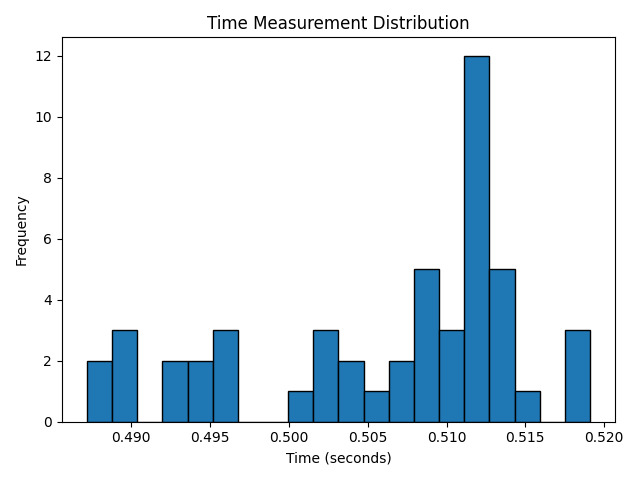
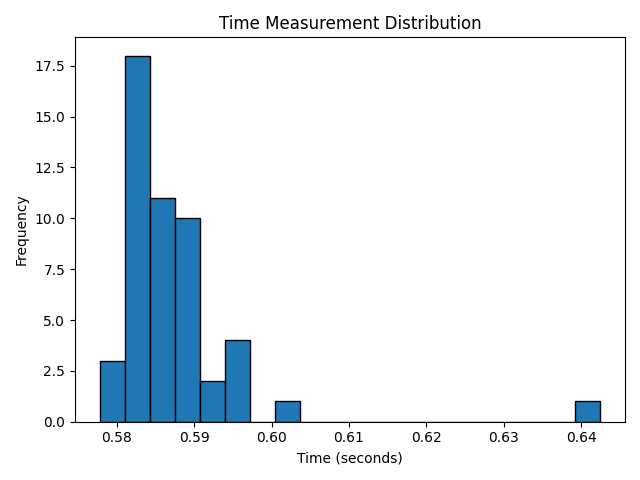
Last refinements

diff --git a/src/bifurcation_generator_CPU.cpp b/src/bifurcation_generator_CPU.cpp
@@ -4,6 +4,7 @@
 #include <stdexcept>
 #include <chrono>
 #include <fstream>
+#include <filesystem>
 
 #include <thread>
 #include <future>
@@ -45,20 +46,27 @@ struct DiaGenParameters {
     float x_range_inv;
     float r_step;
 
-    //Constructor to initialize the parameters and precompute values for optimization
-    DiaGenParameters() {
-        x_range_inv = 1.0f / (x_max - x_min);
-        r_step = (r_max - r_min) / (x_axis - 1);
-    }
-    DiaGenParameters(float x_min_, float x_max_, float r_min_, float r_max_, int resolution_x, int resolution_y) :
-        x_axis(resolution_x),
-        y_axis(resolution_y),
-        x_min(x_min_),
-        x_max(x_max_),
-        r_min(r_min_),
-        r_max(r_max_){
+    // Define  a function to avoid duplicated initialization
+    private:
+        void initialize_derived_parameters() {
             x_range_inv = 1.0f / (x_max - x_min);       //Precompute the inverse of the x range for faster calculation
-            r_step = (r_max - r_min) / (x_axis - 1);    //Precompute the step size for r values to avoid redundant calculations
+            r_step = (r_max - r_min) / (x_axis - 1);      //Precompute the step size for r values to avoid redundant calculations
+        }
+
+    //Constructor to initialize the parameters
+    public:
+        DiaGenParameters() {
+            initialize_derived_parameters();
+        }
+
+        DiaGenParameters(float x_min_, float x_max_, float r_min_, float r_max_, int resolution_x, int resolution_y) :
+            x_axis(resolution_x),
+            y_axis(resolution_y),
+            x_min(x_min_),
+            x_max(x_max_),
+            r_min(r_min_),
+            r_max(r_max_){
+               initialize_derived_parameters();   
         }
 };
 
@@ -92,20 +100,68 @@ void calculate_columns(int i_start, int i_end, const DiaGenParameters& params, D
 }
 
 int main(int argc, char* argv[]) {
-    if (argc < 6) {
-        cerr << "Usage: program x_min x_max r_min r_max resolution\n";
-        return 1;
-    }
-
     //Output directory for the generated files (can be modified as needed)
-    const string output_dir = "C:\\Users\\User\\OneDrive\\Dokumentumok\\Physics MSc\\GPU\\GPU_CPU_asignment\\data\\";
+    const filesystem::path output_dir = "data";
 
-    //Parse command line arguments in vars 
-    DiaGenParameters params(stof(argv[1]), stof(argv[2]), stof(argv[3]), stof(argv[4]), stoi(argv[5]), stoi(argv[6]));
+    //Parse command line arguments in vars
+    float x_min = 0.0f; 
+    float x_max = 1.0f; 
+    float r_min = 2.5f; 
+    float r_max = 4.0f; 
+    int nx = 2048; 
+    int ny = 2048; 
+    int n_threads = std::thread::hardware_concurrency(); // /2 I tried to divide it by two but it got slower so passed it
+
+    for (int i = 1; i < argc; ++i) {
+        std::string arg = argv[i];
+
+        // 
+        if (arg == "--help" || arg == "-h") {
+            cout <<
+                R"(Usage:
+                bifurcation_generator_CPU.exe [options]
+
+                Options:
+                --xmin <float>       Minimum x value
+                --xmax <float>       Maximum x value
+                --rmin <float>       Minimum r value
+                --rmax <float>       Maximum r value
+                --nx <int>           Horizontal resolution
+                --ny <int>           Vertical resolution
+
+                Example:
+                .\build\bifurcation_generator_CPU.exe ^
+                    --xmin 0.0 ^
+                    --xmax 1.0 ^
+                    --rmin 2.5 ^
+                    --rmax 4.0 ^
+                    --nx 2048 ^
+                    --ny 2048 ^
+                )"
+            << endl;
+
+            return 0;
+        }
+
+        if (arg == "--xmin") x_min = std::stof(argv[++i]);
+        else if (arg == "--xmax") x_max = std::stof(argv[++i]);
+        else if (arg == "--rmin") r_min = std::stof(argv[++i]);
+        else if (arg == "--rmax") r_max = std::stof(argv[++i]);
+        else if (arg == "--nx") nx = std::stoi(argv[++i]);
+        else if (arg == "--ny") ny = std::stoi(argv[++i]);
+        else {
+            cerr << "Unknown or incomplete argument: " << arg << "\n";
+            cerr << "Use --help for usage information.\n";
+            return 1;
+        }
+    } 
+
+    // Set the parsed parameters
+    DiaGenParameters params(x_min, x_max, r_min, r_max, nx, ny);
 
     //Generate filenames for the output files
-    const string time_measurements_filename = "bifurcation_runtimes_" + to_string(params.y_axis) + "x" + to_string(params.x_axis) + ".txt";
-    const string diagram_filename = "bifurcation_diagram_" + to_string(params.y_axis) + "x" + to_string(params.x_axis) + ".txt";
+    const filesystem::path time_measurements_filename = "bifurcation_runtimes_" + to_string(params.y_axis) + "x" + to_string(params.x_axis) + ".txt";
+    const filesystem::path diagram_filename = "bifurcation_diagram_" + to_string(params.y_axis) + "x" + to_string(params.x_axis) + ".txt";
 
     //Preallocate the diagram matrix for better cache performance
     DiagramMatrix diagram_matrix(params.x_axis * params.y_axis, 0);
@@ -115,14 +171,14 @@ int main(int argc, char* argv[]) {
     const int progress_update_interval = 100 / NTIME ;
     vector<double> time_measurements(NTIME);
 
-    cout << "Starting bifurcation diagram generation with resolution " << params.x_axis << "x" << params.y_axis << " and " << 10 << "time measurements\n";
+    cout << "Starting bifurcation diagram generation with resolution " << params.x_axis << "x" << params.y_axis << " and " << NTIME << "time measurements\n";
 
     //time measurement loop
     for (int itime = 0; itime < NTIME; itime ++){
         //Reset the diagram matrix to zero for each time measurement iteration
         fill(diagram_matrix.begin(), diagram_matrix.end(), 0);
 
-        int n_threads = thread::hardware_concurrency();
+        // Define future vector for the values 
         std::vector<std::future<void>> futures(n_threads);
 
         int columns_per_thread = params.x_axis / n_threads;
@@ -157,7 +213,7 @@ int main(int argc, char* argv[]) {
 
     //Write time measurements to a file for later analysis
     cout << "\nWriting time measurements to " << time_measurements_filename << " file:\n";
-    ofstream output_file(output_dir + time_measurements_filename);
+    ofstream output_file(output_dir / time_measurements_filename);
 
     for (double time : time_measurements) {
         output_file << time << "\n";
@@ -170,7 +226,7 @@ int main(int argc, char* argv[]) {
 
     //Write the diagram matrix to a file for later visualization
     cout << "\nWriting bifurcation diagram data to " << diagram_filename << " file:\n";
-    output_file.open(output_dir + diagram_filename);
+    output_file.open(output_dir / diagram_filename);
 
     for (int j = params.y_axis - 1; j >= 0; j--) {
         for (int i = 0; i < params.x_axis; i++) {

diff --git a/README.md b/README.md
@@ -51,16 +51,23 @@ Build the executable:
 ```bash
 cmake --build build
 ```
+On Windows, I used the Clang compiler with the following flags:
+```shell
+/O2 /W4 /fp:fast /arch:AVX2
+```
+For convenience, I also included a CMakeLists.txt file that supports both Linux and Windows builds.
 
 ## Run
 
 Run the CPU bifurcation generator:
 ```bash
-.\build\bifurcation_generator_CPU.exe 0.0 1.0 2.5 4.0 2048 2048  
+.\build\bifurcation_generator_CPU.exe --xmin 0.0 --xmax 1.0 --rmin 2.5 --rmax 4.0 --nx 2048 --ny 2048   
 ```
 Here, the first two values define the lower and upper bounds of the population variable \(x\).  The next two values specify the lower and upper bounds of the parameter \(r\).  The last value sets the resolution of the generated image.
 
 The command above produces a bifurcation diagram with a resolution of 2048×2048 pixels.
+
+
 
 ## Plot the Bifurcation Diagram
 ```bash
